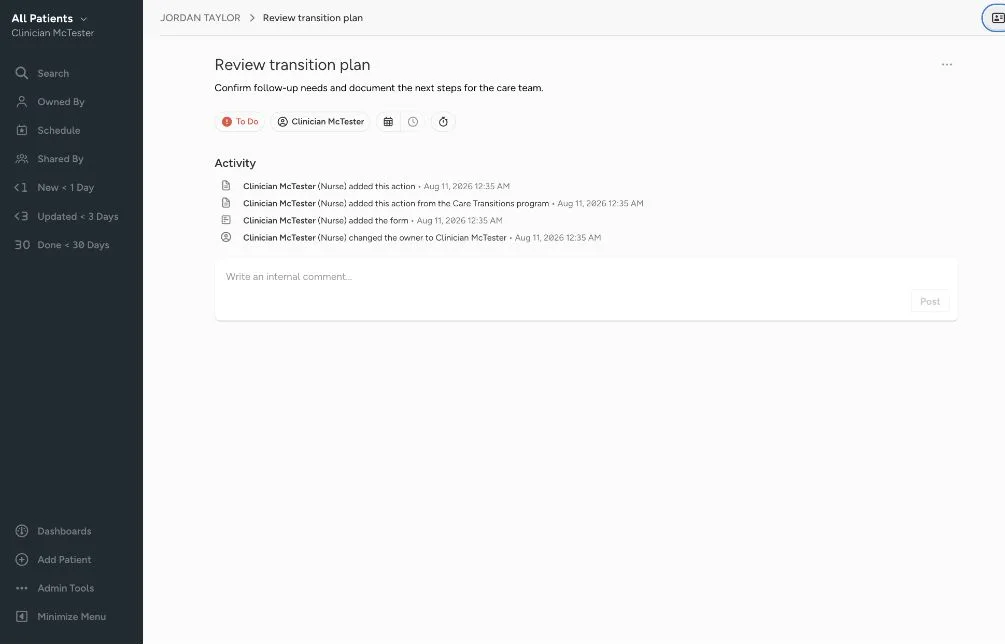
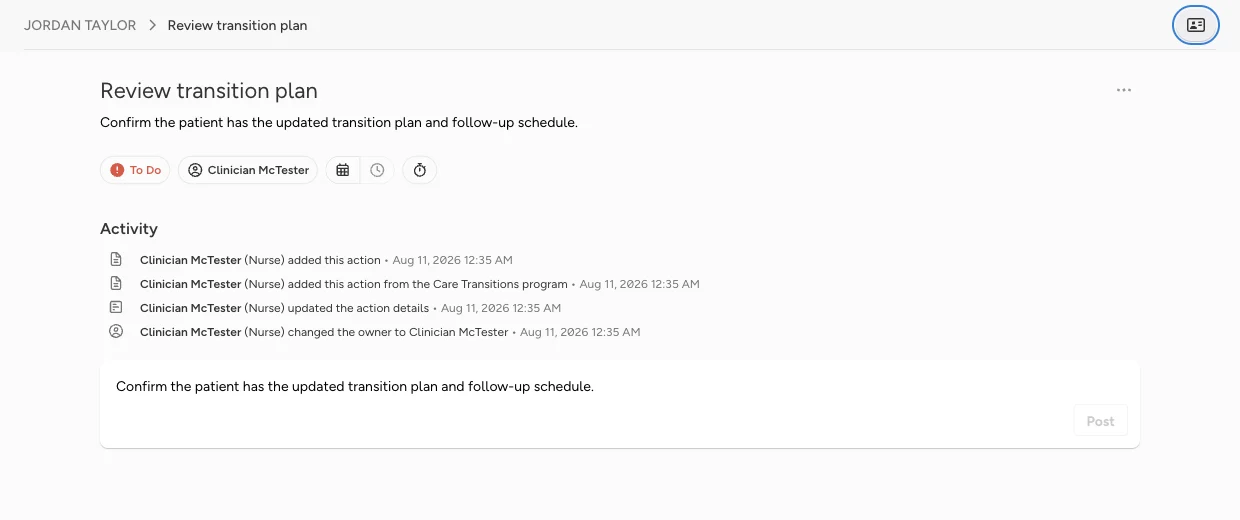
fix(nav): refine what's new release guide

Changed region(s): [[0.0, 0.0, 0.6478, 1.0], [0.9254, 0.0, 1.0, 0.0923], [0.8637, 0.8, 0.8945, 0.8308]]

diff --git a/src/js/apps/globals/nav/whats-new/whats-new.scss b/src/js/apps/globals/nav/whats-new/whats-new.scss
@@ -1,29 +1,18 @@
 .app-nav__announcement {
-  align-items: flex-start;
-  background: rgb(255 255 255 / 9%);
-  border: 1px solid rgb(255 255 255 / 16%);
+  background: rgb(255 255 255 / 7%);
+  border: 1px solid rgb(255 255 255 / 18%);
+  border-left: 3px solid color(light_blue);
   border-radius: 8px;
   color: #{$white};
-  display: grid;
-  font-size: 12px;
-  gap: 8px;
-  grid-template-columns: 18px minmax(0, 1fr) 16px;
-  line-height: 16px;
+  font-size: 13px;
+  line-height: 18px;
   margin: 16px 8px 12px;
-  padding: 12px;
+  padding: 12px 32px 12px 12px;
+  position: relative;
 }
 
-.whats-new-announcement__icon,
 .whats-new-announcement__dismiss {
   color: rgb(255 255 255 / 72%);
-}
-
-.whats-new-announcement__icon .icon {
-  font-size: 16px;
-}
-
-.whats-new-announcement__copy {
-  min-width: 0;
 }
 
 .whats-new-announcement__action,
@@ -39,106 +28,107 @@
   display: block;
   font: inherit;
   font-weight: 700;
-  margin-top: 4px;
+  margin-top: 6px;
   text-align: left;
   text-decoration: underline;
+  white-space: nowrap;
 }
 
 .whats-new-announcement__dismiss {
   height: 16px;
+  position: absolute;
+  right: 10px;
+  top: 10px;
   width: 16px;
 }
 
 .whats-new-modal {
+  display: flex;
+  flex-direction: column;
   max-height: calc(100vh - 32px);
   width: min(920px, calc(100vw - 48px));
 }
 
+.whats-new-modal .modal__header,
+.whats-new-modal .modal__footer {
+  flex: 0 0 auto;
+}
+
 .whats-new-modal .modal__body {
-  max-height: calc(100vh - 168px);
+  flex: 1 1 auto;
+  max-height: none;
+  min-height: 0;
+  overflow-y: auto;
 }
 
 .whats-new-guide {
   color: #{$black-20};
   max-width: 872px;
+  padding-bottom: 16px;
 }
 
 .whats-new-guide__intro {
+  border-bottom: 1px solid #{$black-90};
+  margin: 0 0 32px;
+  padding-bottom: 28px;
+}
+
+.whats-new-guide__intro h2 {
+  font-size: 28px;
+  line-height: 36px;
+  margin: 8px 0 12px;
+}
+
+.whats-new-guide__intro p {
+  color: #{$black-40};
   font-size: 16px;
   line-height: 24px;
-  margin: 0 0 24px;
+  margin: 0;
+  max-width: 720px;
+}
+
+.whats-new-guide__eyebrow {
+  color: color(blue);
+  display: block;
+  font-size: 12px;
+  font-weight: 700;
+  letter-spacing: 0.06em;
+  line-height: 16px;
+  text-transform: uppercase;
 }
 
 .whats-new-guide__section {
-  margin-bottom: 32px;
+  margin-bottom: 40px;
 }
 
 .whats-new-guide__section h3 {
-  font-size: 18px;
-  margin: 0 0 8px;
+  font-size: 22px;
+  line-height: 28px;
+  margin: 8px 0;
 }
 
 .whats-new-guide__section > p {
   color: #{$black-40};
-  line-height: 20px;
-  margin: 0 0 16px;
+  font-size: 15px;
+  line-height: 22px;
+  margin: 0 0 20px;
+  max-width: 720px;
 }
 
 .whats-new-guide__figure {
-  border: 1px solid #{$black-90};
-  border-radius: 8px;
+  background: var(--color-page-bg);
+  border-radius: 12px;
   margin: 0;
-  overflow: hidden;
-  position: relative;
+  padding: 20px;
 }
 
 .whats-new-guide__figure img {
+  border: 1px solid #{$black-90};
+  border-radius: 8px;
+  box-shadow: 0 10px 24px rgb(0 0 0 / 8%);
   display: block;
   height: auto;
   width: 100%;
-}
-
-.whats-new-guide__highlight {
-  border: 2px solid color(blue);
-  border-radius: 6px;
-  box-shadow: 0 0 0 3px rgb(255 255 255 / 80%);
-  pointer-events: none;
-  position: absolute;
-}
-
-.whats-new-guide__highlight span {
-  background: color(blue);
-  border-radius: 4px;
-  color: #{$white};
-  font-size: 11px;
-  font-weight: 700;
-  left: 6px;
-  line-height: 18px;
-  padding: 0 6px;
-  position: absolute;
-  top: 6px;
-  white-space: nowrap;
-}
-
-.whats-new-guide__highlight--nav {
-  bottom: 1.5%;
-  left: 0.5%;
-  top: 0.5%;
-  width: 13.5%;
-}
-
-.whats-new-guide__highlight--filters {
-  height: 56%;
-  right: 0.5%;
-  top: 4.5%;
-  width: 17.5%;
-}
-
-.whats-new-guide__highlight--action {
-  height: 45%;
-  left: 20.5%;
-  top: 6.5%;
-  width: 75%;
 }
 
 .whats-new-guide__moved dl {

diff --git a/src/js/apps/globals/nav/app-nav.e2e.cy.js b/src/js/apps/globals/nav/app-nav.e2e.cy.js
@@ -272,6 +272,28 @@ context('App Nav', function() {
       .find('.whats-new-guide__figure img')
       .should('have.length', 2);
 
+    cy.viewport(1280, 400);
+
+    cy
+      .get('.whats-new-modal')
+      .should($modal => {
+        const bounds = $modal[0].getBoundingClientRect();
+
+        expect(bounds.top).to.be.at.least(0);
+        expect(bounds.bottom).to.be.at.most(400);
+      })
+      .contains('button', 'Done')
+      .should('be.visible');
+
+    cy
+      .get('.whats-new-modal .modal__body')
+      .should($body => {
+        expect($body[0].scrollHeight).to.be.greaterThan($body[0].clientHeight);
+      })
+      .scrollTo('bottom')
+      .contains('What moved where')
+      .should('be.visible');
+
     cy
       .get('.app-nav__announcement')
       .should('exist');
@@ -280,6 +302,8 @@ context('App Nav', function() {
       .get('.whats-new-modal')
       .contains('button', 'Done')
       .click();
+
+    cy.viewport(1280, 600);
 
     cy
       .get('.app-nav__announcement')
@@ -309,7 +333,13 @@ context('App Nav', function() {
       .should('be.visible')
       .then($whatsNew => {
         cy
+          .get('.picklist__group')
+          .first()
+          .should('have.css', 'border-bottom-width', '1px');
+
+        cy
           .get('.app-nav__picklist-bottom')
+          .should('have.css', 'border-top-width', '0px')
           .contains('Help & Support')
           .then($help => {
             expect($whatsNew[0].compareDocumentPosition($help[0]))

diff --git a/src/js/apps/globals/nav/whats-new/whats-new.component.cy.js b/src/js/apps/globals/nav/whats-new/whats-new.component.cy.js
@@ -38,22 +38,26 @@ context('What\'s New views', function() {
       });
   });
 
-  specify('renders the guide with two stable assets and callouts', function() {
+  specify('renders the guide with two stable release assets', function() {
     cy.mount(() => new GuideView());
 
     cy
       .get('.whats-new-guide__figure img')
       .should('have.length', 2)
       .first()
-      .should('have.attr', 'src', '/images/whats-new/worklist.webp');
+      .should('have.attr', 'src', '/images/whats-new/worklist.webp')
+      .and('have.attr', 'width', '1240')
+      .and('have.attr', 'height', '560');
 
     cy
       .get('.whats-new-guide__figure img')
       .eq(1)
-      .should('have.attr', 'src', '/images/whats-new/action.webp');
+      .should('have.attr', 'src', '/images/whats-new/action.webp')
+      .and('have.attr', 'width', '1240')
+      .and('have.attr', 'height', '520');
 
     cy
-      .get('.whats-new-guide__highlight')
+      .get('.whats-new-guide__section')
       .should('have.length', 3);
 
     cy

diff --git a/src/js/apps/globals/nav/app-nav/app-nav.scss b/src/js/apps/globals/nav/app-nav/app-nav.scss
@@ -98,15 +98,9 @@ $nav-row-width: calc(100% - 16px);
 }
 
 .app-nav__picklist-bottom {
-  border-top: 1px solid #{$black-90};
-  margin-top: 8px;
-  padding-top: 8px;
-}
-
-.app-nav__picklist .picklist__group + .picklist__group {
-  border-top: 1px solid #{$black-90};
-  margin-top: 8px;
-  padding-top: 8px;
+  border-top: 0;
+  margin-top: 0;
+  padding-top: 0;
 }
 
 .app-nav__header {

diff --git a/src/js/apps/globals/nav/whats-new/whats-new_views.js b/src/js/apps/globals/nav/whats-new/whats-new_views.js
@@ -24,6 +24,7 @@ const AnnouncementView = View.extend({
 });
 
 const GuideView = View.extend({
+  className: 'modal__content whats-new-guide',
   template: GuideTemplate,
 });
 
